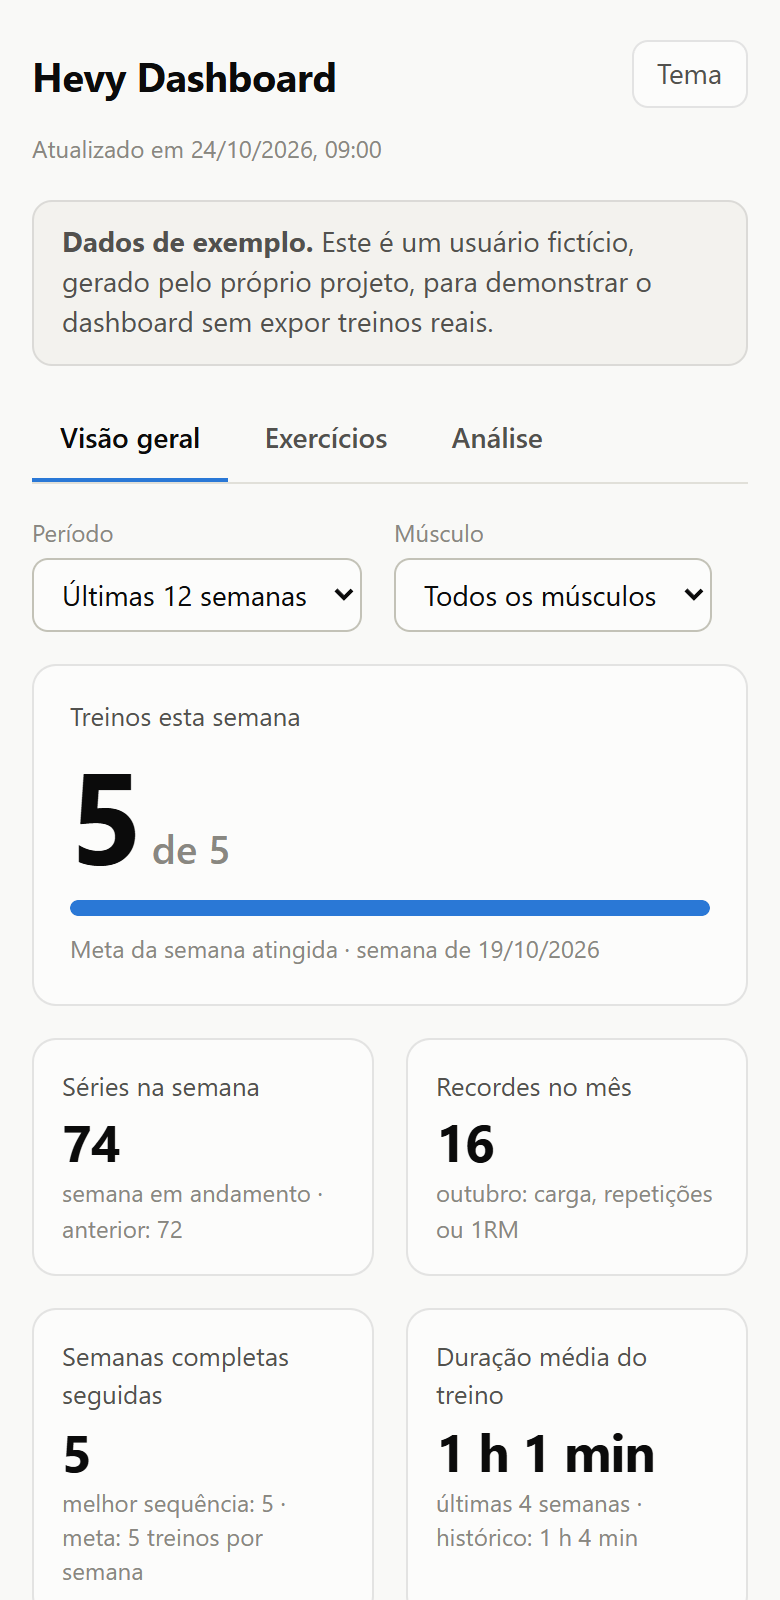
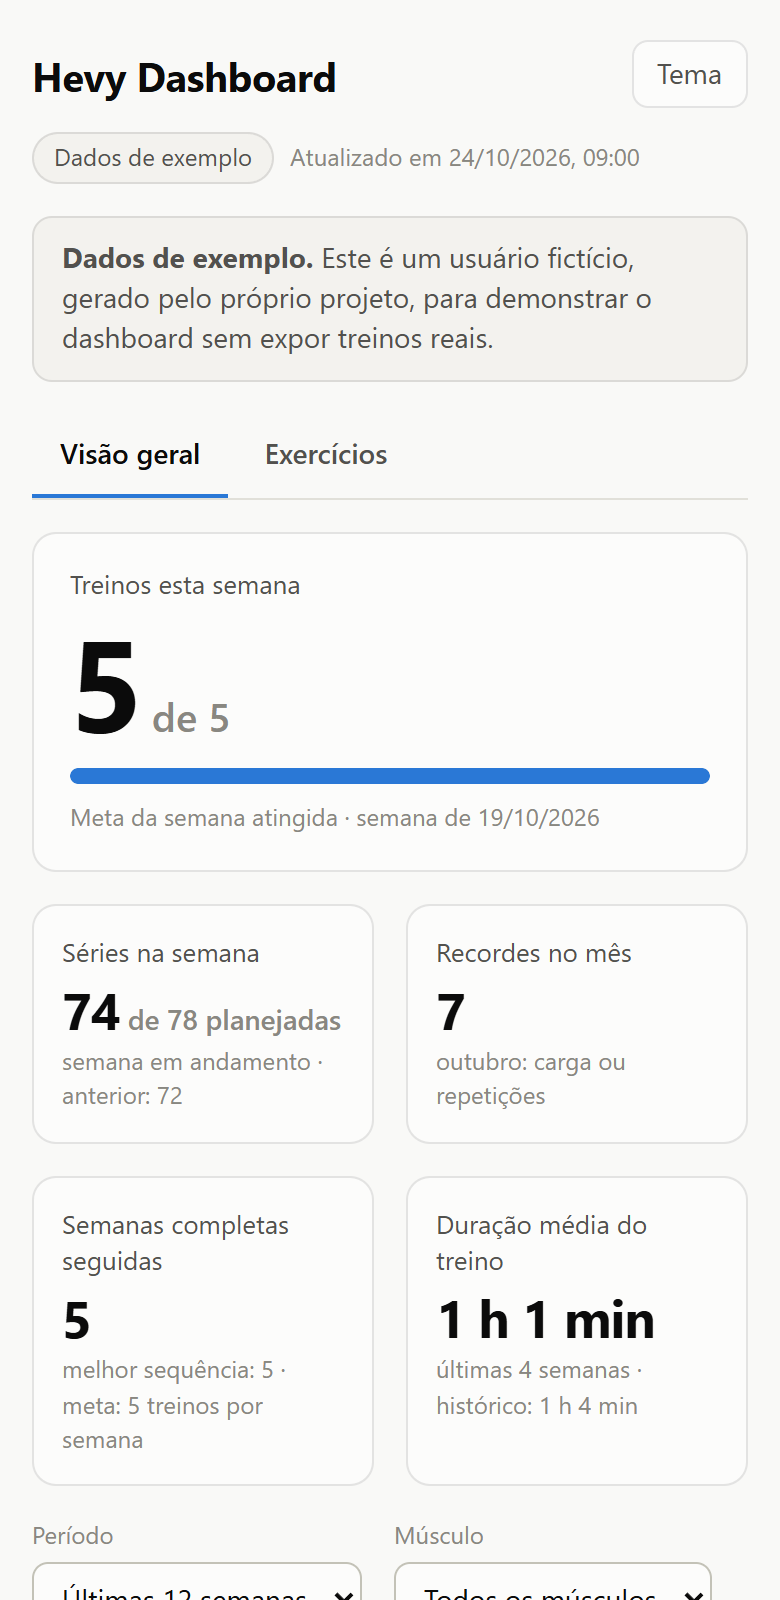
Atualiza a documentação para a meta pelo planejado e a evolução sem 1RM
README, CLAUDE.md e contexto descrevem as regras novas, o que saiu do programa
por decisão do usuário e o layout atual. As capturas de tela do README (só com
dados de exemplo) são refeitas, e a da aba Análise é removida.

diff --git a/README.md b/README.md
@@ -4,7 +4,7 @@
 ![Java 21](https://img.shields.io/badge/Java-21-informational)
 ![Licença MIT](https://img.shields.io/badge/licen%C3%A7a-MIT-green)
 
-Sincroniza os treinos do [Hevy](https://www.hevyapp.com/) com uma planilha do Google Sheets, calcula o volume semanal por grupo muscular (séries **diretas** e **indiretas**) e mostra tudo em um dashboard web: consistência, evolução de carga, recordes pessoais, alerta de estagnação e equilíbrio do treino.
+Sincroniza os treinos do [Hevy](https://www.hevyapp.com/) com uma planilha do Google Sheets, calcula o volume semanal por grupo muscular (séries **diretas** e **indiretas**) compara com o que as suas rotinas planejam e mostra tudo em um dashboard web: consistência, evolução de carga e repetições de cada exercício, recordes pessoais e um alerta dos exercícios que pararam de evoluir.
 
 **Demonstração com dados de exemplo:** https://gabrielcdzz.github.io/Hevy-DashBoard/
 
@@ -15,9 +15,8 @@ Sincroniza os treinos do [Hevy](https://www.hevyapp.com/) com uma planilha do Go
 O Hevy registra cada série, mas não responde às perguntas de quem treina com método:
 
 - Quantas séries de cada músculo eu fiz **nesta semana**, contando também o trabalho indireto (o supino treina o tríceps)?
-- Estou dentro da faixa que planejei para cada músculo?
-- Em quais exercícios eu parei de evoluir?
-- Meu treino está equilibrado entre empurrar e puxar, parte superior e inferior?
+- Estou fazendo, em cada músculo, as séries que as minhas rotinas planejam?
+- Em quais exercícios eu aumentei a carga ou as repetições desde o último treino, e em quais parei de evoluir?
 - Estou sendo consistente, semana após semana?
 
 ## A solução
@@ -26,18 +25,16 @@ Um programa em Java que lê a API do Hevy, guarda cada série em uma planilha (p
 
 - **Sincronização incremental.** A cada execução o programa pede ao Hevy só os treinos que foram salvos, editados ou apagados desde a última vez. Importar um histórico de alguns anos (centenas de treinos) leva cerca de 30 segundos; as execuções seguintes, cerca de 10.
 - **Regras de contagem explícitas e testadas** (veja abaixo), com os números conferidos à mão contra o próprio Hevy.
-- **Configuração na própria planilha:** faixa-alvo por músculo, níveis de volume, fases (cutting, bulking), meta de treinos por semana. Nada disso exige mexer em código.
-- **Dashboard com três abas**, filtros de período, músculo e exercício, modo claro e escuro, versão para celular e uma tabela equivalente para cada gráfico.
+- **A meta de cada músculo vem das próprias rotinas.** O programa soma as séries diretas de cada músculo nas rotinas do Hevy: com 5 séries de peito planejadas, fazer 4 na semana é abaixo, 5 é dentro e 6 é acima. Na semana em andamento aparece "faltam 2", e não um alarme falso. Mudou a rotina no Hevy, a meta muda sozinha.
+- **Evolução em carga e repetições**, sem fórmulas de 1RM: compara a série mais pesada do último treino de cada exercício com a do treino anterior.
+- **Configuração na própria planilha** (o que conta como série indireta e a meta de treinos por semana), sem mexer em código.
+- **Dashboard com duas abas**, filtros de período (4 semanas a todo o histórico, ou um número de semanas à sua escolha), músculo e exercício, modo claro e escuro, versão para celular e uma tabela equivalente para cada gráfico.
 
 ## Capturas
 
-| Exercícios (modo escuro) | Análise |
+| Exercícios (modo escuro) | No celular |
 |---|---|
-| ![Exercícios, modo escuro](docs/img/exercicios-escuro.png) | ![Análise](docs/img/analise.png) |
-
-| No celular |
-|---|
-| <img src="docs/img/celular.png" alt="Dashboard no celular" width="320"> |
+| ![Exercícios, modo escuro](docs/img/exercicios-escuro.png) | <img src="docs/img/celular.png" alt="Dashboard no celular" width="320"> |
 
 Todas as imagens e o site publicado usam **dados de exemplo**: um usuário fictício gerado pelo próprio projeto.
 
@@ -54,7 +51,7 @@ flowchart LR
 
 1. **Busca.** `HevyClient` lê treinos, rotinas e exercícios, com paginação e novas tentativas em caso de erro passageiro.
 2. **Guarda.** `WorkoutSetsTable` grava uma linha por série na aba `series_treinos`. Ao receber um treino editado ou apagado, apaga só as linhas dele e acrescenta as novas. Aplicar os mesmos eventos duas vezes não duplica nada, então uma execução que falha no meio se corrige na seguinte.
-3. **Calcula.** O pacote `service` (sem acesso a rede ou planilha) transforma as séries em volume por músculo, 1RM, recordes, tendência e consistência.
+3. **Calcula.** O pacote `service` (sem acesso a rede ou planilha) transforma as séries em volume por músculo contra o planejado das rotinas, evolução dos exercícios, recordes e consistência.
 4. **Exporta.** `DashboardExporter` junta tudo em um JSON, que o site lê.
 5. **Lembra.** A data da última sincronização fica na aba `estado_sync` da planilha, porque quem agenda a execução não guarda estado entre uma execução e outra.
 
@@ -67,9 +64,10 @@ flowchart LR
 | Série indireta | Conta só para **bíceps e tríceps** (nas puxadas e nos empurrões). Os outros músculos secundários que o Hevy lista são ignorados. |
 | Agrupamento | Dorsal e costas superiores contam juntos como "costas". |
 | Semana | De segunda a domingo, no fuso de Brasília (um treino às 22h de domingo não pode cair na semana seguinte). |
-| 1RM estimado | Fórmula de Epley: `carga × (1 + repetições / 30)`. |
-| Entra em 1RM e recordes | Séries de trabalho com carga e entre 1 e 50 repetições. Acima disso é tratado como erro de digitação. |
-| Estagnação | O melhor 1RM das últimas N semanas não passou o das N semanas anteriores. |
+| Meta semanal de um músculo | As séries diretas dele somadas nas rotinas atuais. Abaixo, dentro (igual) ou acima. Na semana em andamento, menos que a meta aparece como "faltam N". |
+| Evolução de um exercício | A série mais pesada de cada treino. Subiu a carga: "aumentou a carga" (mesmo com menos repetições). Mesma carga e outras repetições: "mudou as repetições". |
+| Entra em recordes e na evolução | Séries de trabalho com carga e entre 1 e 50 repetições. Acima disso é tratado como erro de digitação (mas continua contando no volume). |
+| Sem evolução | Nas últimas N semanas não subiu a carga, nem as repetições com a mesma carga, em relação às N semanas anteriores. |
 | Semana completa | Pelo menos a meta de treinos por semana (configurável). |
 
 O exemplo da regra de séries indiretas: um supino inclinado (peito) com 2 séries de trabalho vale 2 diretas de peito e 2 indiretas de tríceps. As regras ficam em `docs/contexto.md`.
@@ -127,7 +125,7 @@ O site publicado na internet mostra **sempre** o exemplo. Para ver os seus trein
    java -jar target/hevy-dashboard-0.1.0-SNAPSHOT.jar dashboard
    ```
 
-   O programa sincroniza com o Hevy (só o que mudou desde a última vez) e abre o dashboard com os seus dados. Na primeira execução ele importa o histórico inteiro e cria, na planilha, as abas de configuração com valores iniciais que você pode editar.
+   O programa sincroniza com o Hevy (só o que mudou desde a última vez) e abre o dashboard com os seus dados. Na primeira execução ele importa o histórico inteiro e cria, na planilha, as abas de configuração (`ajustes_manuais` e `config`) com valores iniciais que você pode editar.
 
 Quando atualizar o código, rode `mvn package` de novo para gerar o jar novo.
 
@@ -147,7 +145,7 @@ cd site/tests && npm ci && npm test   # testes de navegador (precisa do Google C
 ```
 
 - **Java:** testes unitários dos cálculos (com as rotinas de um usuário fictício e contas feitas à mão), da leitura da API contra um servidor local falso, da planilha e da sincronização completa contra versões falsas do Hevy e do Sheets. Nenhum teste usa a rede.
-- **Navegador:** o site é aberto no Chrome sem janela, e o teste confere tooltips, a tabela equivalente de cada gráfico, filtros, tema, troca de aba, seleção de exercício e se nada estoura a largura de um celular.
+- **Navegador:** o site é aberto no Chrome sem janela, e o teste confere o layout, tooltips, a tabela equivalente de cada gráfico, os filtros (inclusive o período personalizado e os valores inválidos), tema, troca de aba, seleção de exercício e se nada estoura a largura de um celular.
 - **CI:** o GitHub Actions roda os dois conjuntos, confere que o `site/data/sample.json` está em dia com o código e publica o site.
 
 ## Privacidade e segurança
@@ -162,6 +160,8 @@ cd site/tests && npm ci && npm test   # testes de navegador (precisa do Google C
 - **Datas lidas sem formatação.** O Google Sheets devolve datas no formato do idioma da planilha, e reinterpretá-las pode trocar dia e mês. O programa lê o valor interno (um número de dias) e converte.
 - **Limite de requisições do Google.** Uma sincronização faz mais de 30 chamadas, e três execuções seguidas estouraram a cota por minuto. O cliente agora repete com espera crescente.
 - **Nomes de exercícios.** A API devolve os exercícios padrão em inglês, enquanto os treinos guardam o nome no idioma do app. Só os exercícios personalizados têm o nome atualizado pelo template (e é assim que renomear um exercício junta o histórico dele).
+- **A meta de séries vem das rotinas, não de faixas fixas.** Assim ela acompanha o que você realmente planejou, e o programa não precisa de uma tabela de metas para manter.
+- **Evolução sem 1RM.** Carga e repetições são o que se anota e o que se sente no treino; uma fórmula de estimativa só adicionava um número que não se usa. A comparação é feita com a série mais pesada de cada treino.
 - **Dados reais acham erros que o exemplo não acha.** Séries com 101 repetições (erro de digitação) distorciam os recordes; exercícios recriados com o mesmo nome dividiam o histórico em dois.
 
 ## Código próprio e de terceiros
@@ -184,7 +184,7 @@ O projeto foi desenvolvido com apoio de um assistente de IA (Claude), e o autor 
 ## Próximos passos
 
 - **Versão com contas**, para outras pessoas conectarem o próprio Hevy. A API do Hevy não tem login OAuth: usa uma chave pessoal, então isso pede um servidor, um banco de dados e a guarda criptografada das chaves.
-- RPE médio por exercício, força relativa (1RM dividido pelo peso corporal) e o próximo recorde de cada exercício, que dependem de dados que ainda não estão preenchidos no Hevy.
+- RPE médio por exercício e força relativa (carga dividida pelo peso corporal), que dependem de dados que ainda não estão preenchidos no Hevy.
 
 ## Licença
 

diff --git a/docs/contexto.md b/docs/contexto.md
@@ -2,6 +2,8 @@
 
 > Complementa o `docs/plano.md` (especificação original). Quando os dois divergirem, vale este arquivo.
 > Atualizado em 24/10/2026.
+>
+> **Este arquivo é um registro histórico e foi escrito em etapas.** Várias coisas dele foram superadas por decisões do usuário (Looker Studio, GitHub Actions agendado, faixas-alvo fixas, níveis, fases, 1RM, aba Análise, calendário). A seção **8** no fim lista o que mudou na segunda rodada, e o `CLAUDE.md` descreve o estado atual do código. Em caso de dúvida, vale a seção 8 e depois o `CLAUDE.md`.
 
 O ponto central é **praticidade**: o usuário muda uma série no Hevy (adiciona, remove, edita) e o dashboard se atualiza sozinho, sem digitar nada.
 
@@ -182,3 +184,33 @@ Arquitetura nova: Hevy API → Java (sincronização e cálculo) → Google Shee
 - A API do Hevy devolve os exercícios padrão em inglês e os treinos guardam o nome no idioma do app. Só os exercícios personalizados têm o nome atualizado a partir do template (ver `SetRecords.withCurrentTemplates`).
 - Renomear um exercício personalizado no Hevy não gera evento de treino, então os treinos antigos continuam com o nome velho na planilha. Por isso o nome vem do template de hoje (ver `SetRecords.withCurrentTemplates`): renomear junta o histórico antigo e o novo, e dois templates com o mesmo nome viram um exercício só.
 - Cardio, corpo inteiro e "outros" não são músculos: o site os esconde das listas de volume e do filtro de músculo.
+
+## 8. Segunda rodada de mudanças (24/10/2026)
+
+O usuário pediu várias mudanças de uma vez; foram discutidas e confirmadas antes de executar.
+
+**Saiu do programa (e não volta sem o usuário pedir):**
+
+- Cutting e bulking: marcadores nos gráficos, a aba `fases` e o código.
+- 1RM estimado (fórmula de Epley) em todo o programa, "porque na prática ele não usa esse termo".
+- Níveis baixo/moderado/alto e as faixas-alvo fixas por músculo (abas `niveis_volume` e `faixa_alvo`).
+- A aba **Análise** inteira (frequência por músculo, tonelagem, push/pull, séries por faixa de repetição) e o calendário de treinos da Visão geral. O código morto foi apagado (`Movement`, `OneRepMax`, `TargetRange`, `VolumeLevels`, `Phase`).
+- As abas `fases`, `faixa_alvo` e `niveis_volume` da planilha do usuário **ficam como estão**, sem uso (ele escolheu não apagar).
+
+**A meta semanal passa a ser o volume planejado das rotinas.** Cada músculo tem como meta a soma das séries diretas dele nas rotinas atuais. Exemplo do usuário: 5 séries de peito nas rotinas; 4 na semana é abaixo, 5 é dentro, 6 é acima. Músculos fora das rotinas não têm meta. Na **semana em andamento**, menos que o planejado aparece como "faltam N" (não "abaixo"), para não dar alarme falso na quarta-feira; passar do planejado já aparece como acima. O planejado atual vale para todas as semanas do histórico, mas as antigas foram feitas com outras rotinas, então é só referência.
+
+**Exercícios sem 1RM.** A evolução usa a **série mais pesada** de cada treino (maior carga e, nela, mais repetições). Duas comparações, as duas pedidas pelo usuário:
+
+1. **Último treino contra o anterior do mesmo exercício**: "aumentou a carga" (mostra a carga, ex.: 60 → 62,5 kg), "mesma carga, mudou as repetições" (mostra as repetições, ex.: 10 → 12), "diminuiu a carga" (sugestão aceita) e "sem mudança". A carga tem prioridade: subir a carga com menos repetições é "aumentou a carga".
+2. **Janela de semanas** (as últimas N contra as N anteriores, N = `semanas_estagnacao`): alimenta o alerta "sem evolução". Evoluir = subir a carga, ou as repetições com a mesma carga.
+
+Os "recordes mais recentes" ficam como estavam, só que sem o tipo "maior 1RM". O cartão "Recordes no mês" passa a contar só recordes de carga e de repetições.
+
+**Visão geral e filtros.**
+
+- O filtro de período ganhou "Últimas 4 semanas" e "Personalizado" (o usuário digita o número de semanas, de 1 a 520). As outras opções continuam.
+- Os filtros de Período e Músculo ficam **abaixo dos 5 cartões da semana**, que não dependem deles. Na aba Exercícios eles ficam no topo.
+- A "Variação semanal de volume" também responde ao filtro de músculo (variação das séries diretas dele).
+- O cartão "Séries na semana" mostra também o total planejado ("74 de 78 planejadas", nos dados de exemplo).
+
+**Formato do arquivo de dados** (`DashboardData`): saíram `phases`, `calendar`, `workouts`, `config.targets`, `config.levels` e todo campo de 1RM e de tonelagem. Entraram `planned`, `status` e `changePercent` em cada linha de `volume`, e `lastChange`, `trend` e `sessions` com carga e repetições em cada exercício.

diff --git a/docs/plano.md b/docs/plano.md
@@ -1,6 +1,6 @@
 # Plano do projeto
 
-> Especificação original do projeto. As decisões tomadas depois, o estado atual e as próximas etapas estão em `docs/contexto.md`, que prevalece em caso de conflito.
+> Especificação original do projeto. As decisões tomadas depois, o estado atual e as próximas etapas estão em `docs/contexto.md`, que prevalece em caso de conflito. **Várias coisas deste plano foram removidas por decisão do usuário** (Looker Studio, 1RM, fases cutting/bulking, faixas-alvo fixas, a aba Análise, o calendário de treinos); a lista está na seção 8 do `contexto.md`.
 
 ## 1. Objetivo
 
